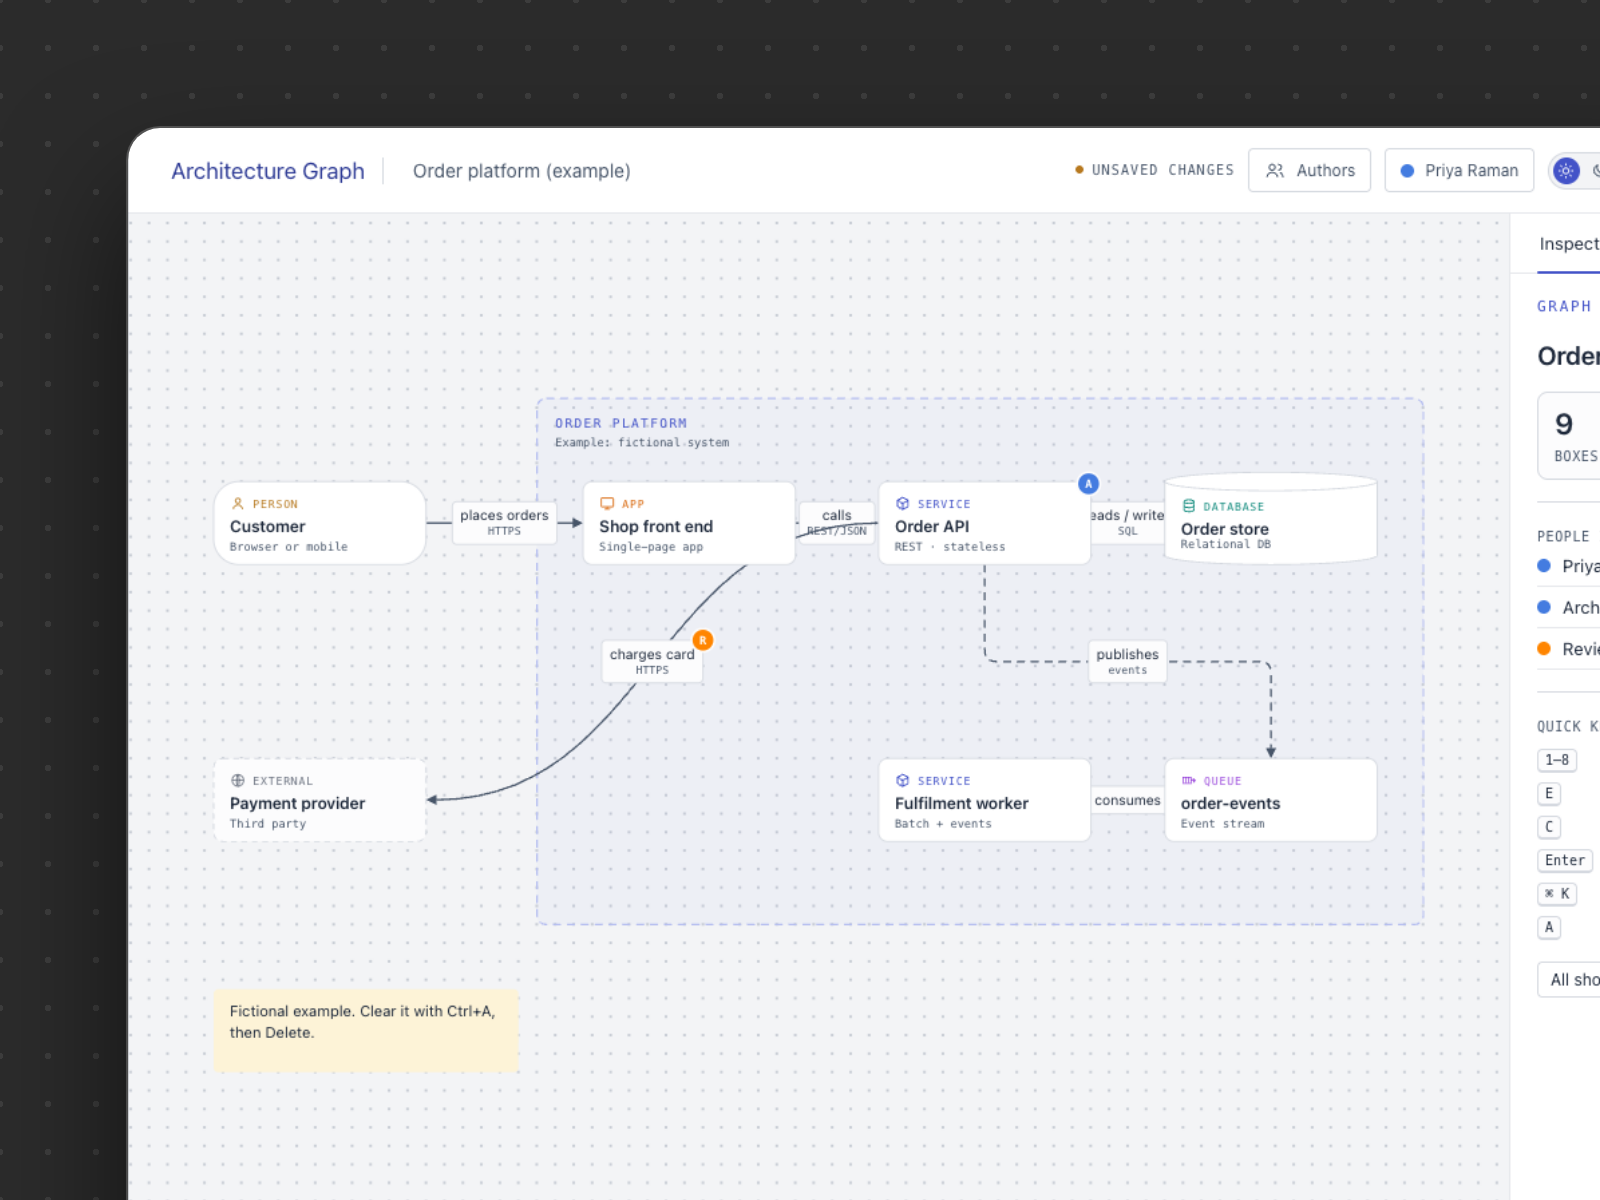
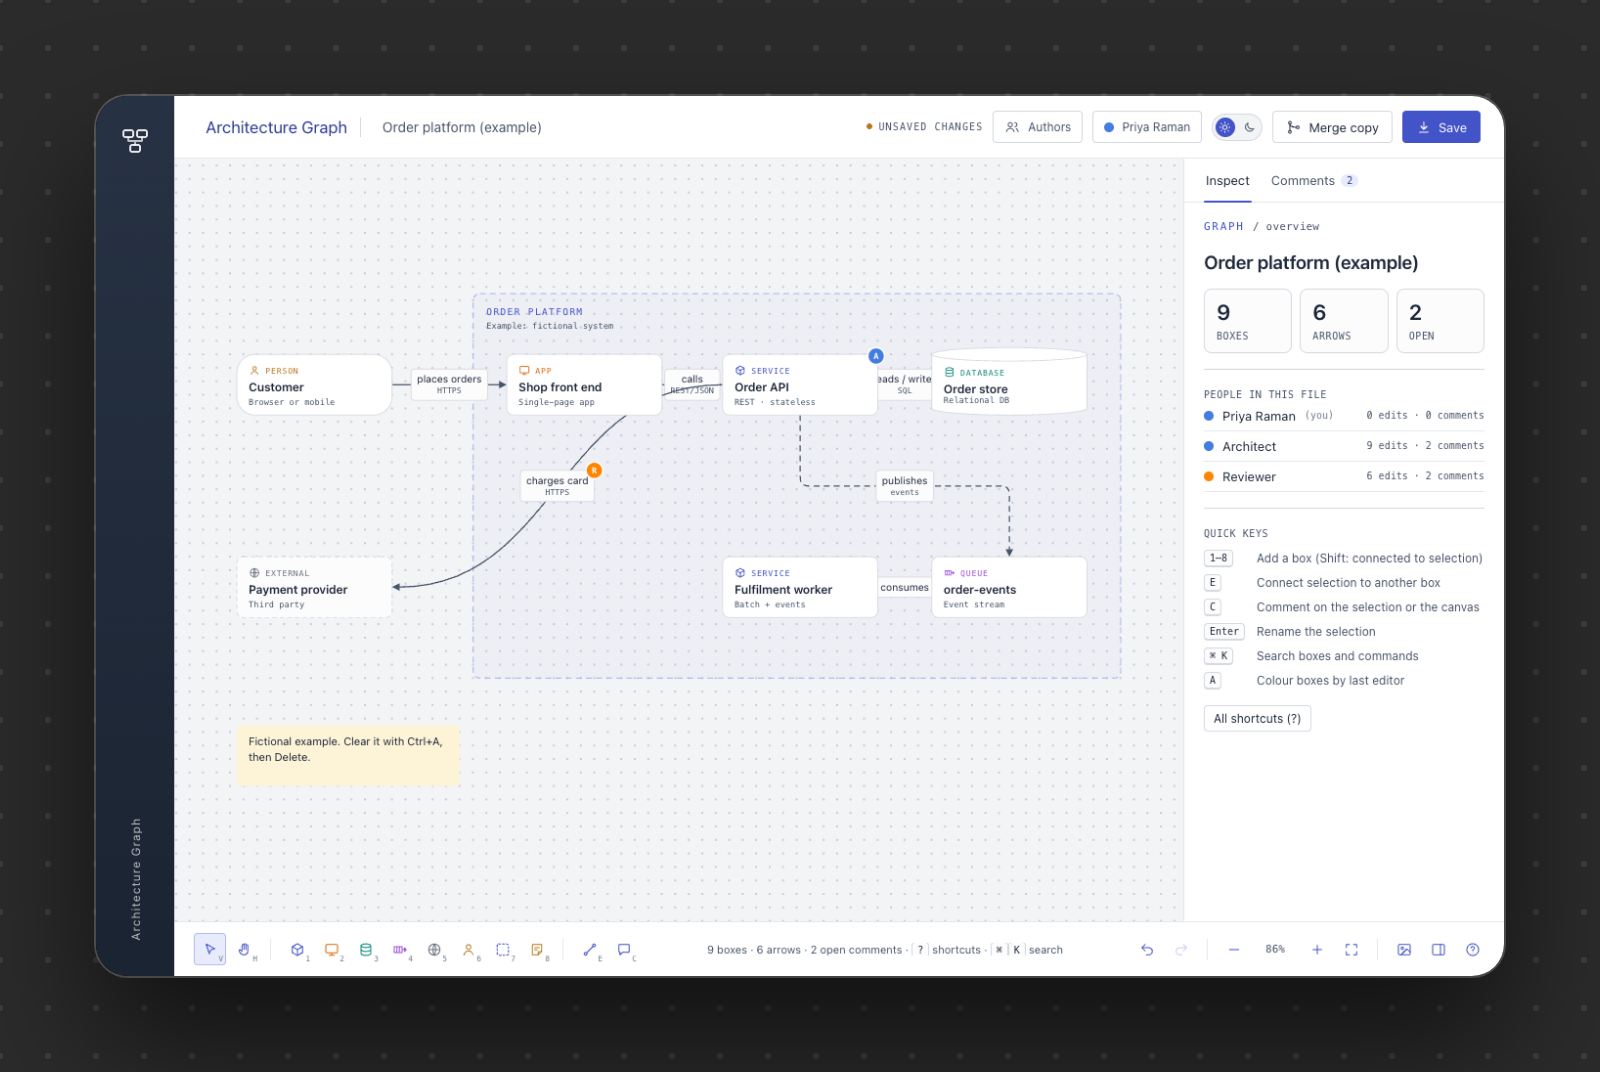
README heroes: frame the whole UI with an even margin instead of running off the edge

diff --git a/thumbs/template.html b/thumbs/template.html
@@ -1,12 +1,15 @@
 <!doctype html>
-<!-- Calendar thumbnail, 800×600. Rendered by make.sh; the query string says which
-     image to frame and which part of it: ?src=src/x.png&x=80&y=80&w=1032 (source pixels).
-     The crop's top left corner lands on the frame's corner and is scaled so w fills the frame. -->
+<!-- Rendered by make.sh; the query string says which image to frame and which part of it,
+     in source pixels: ?src=src/x.png&x=80&y=80&w=1032.
+     Tile (default, 800×600): the crop's top left corner lands on the frame's corner, w fills
+     the frame, and the frame runs off the right and bottom edges.
+     Hero (&mode=hero&h=…, 800 wide): the whole x, y, w, h crop sits in a frame with an even
+     48px margin on every side, so nothing looks cut off in a README. -->
 <html>
 <head>
   <meta charset="utf-8">
   <style>
-    html, body { margin: 0; width: 800px; height: 600px; overflow: hidden; }
+    html, body { margin: 0; width: 800px; height: 100%; overflow: hidden; }
     body {
       position: relative;
       background-color: #2b2b2b;
@@ -21,14 +24,21 @@
       box-shadow: 0 0 0 1px rgba(255, 255, 255, 0.2), 0 32px 64px rgba(0, 0, 0, 0.6);
     }
     .frame img { position: absolute; left: 0; top: 0; transform-origin: 0 0; }
+    .hero .frame { left: 48px; top: 48px; width: 704px; }
   </style>
 </head>
 <body>
   <div class="frame"><img id="shot" alt=""></div>
   <script>
-    const VISIBLE = 736; // 800 minus the 64px inset; the frame runs off the right and bottom edges
     const q = new URLSearchParams(location.search);
+    const hero = q.get("mode") === "hero";
+    // Tile: 800 minus the 64px inset, running off the edges. Hero: 800 minus two 48px margins.
+    const VISIBLE = hero ? 704 : 736;
     const img = document.getElementById("shot");
+    if (hero) {
+      document.body.classList.add("hero");
+      document.querySelector(".frame").style.height = `${(VISIBLE * q.get("h")) / q.get("w")}px`;
+    }
     img.onload = () => {
       const s = VISIBLE / Number(q.get("w"));
       img.style.width = `${img.naturalWidth * s}px`;

diff --git a/README.md b/README.md
@@ -31,3 +31,5 @@ The page is plain HTML with no build step. Open `index.html` in a browser to pre
 Every day uses the same 800×600 tile so the calendar reads as one set: a flat `#2B2B2B` ground with a `#3D3D3D` dot grid, and a tight crop of the tool's real UI in a window frame 64px from the top and left, running off the right and bottom edges. [`thumbs/template.html`](thumbs/template.html) draws it; [`thumbs/make.sh`](thumbs/make.sh) renders it with headless Chrome (set `CHROME=` to use another binary; needs `jq`).
 
 Use a dark mode capture of the tool when it has one, so every tile reads as one set. Crop to the one part that says what the tool does, tight enough to read at 130px wide: the panel, the highlighted element, the result. Never a whole window or a logo.
+
+Each entry can also have a `hero` crop (`x`, `y`, `w`, `h`, optional `src`) for the tool's README: the same branding, but the whole UI framed with an even margin, written to `assets/heroes/<slug>.png`.
